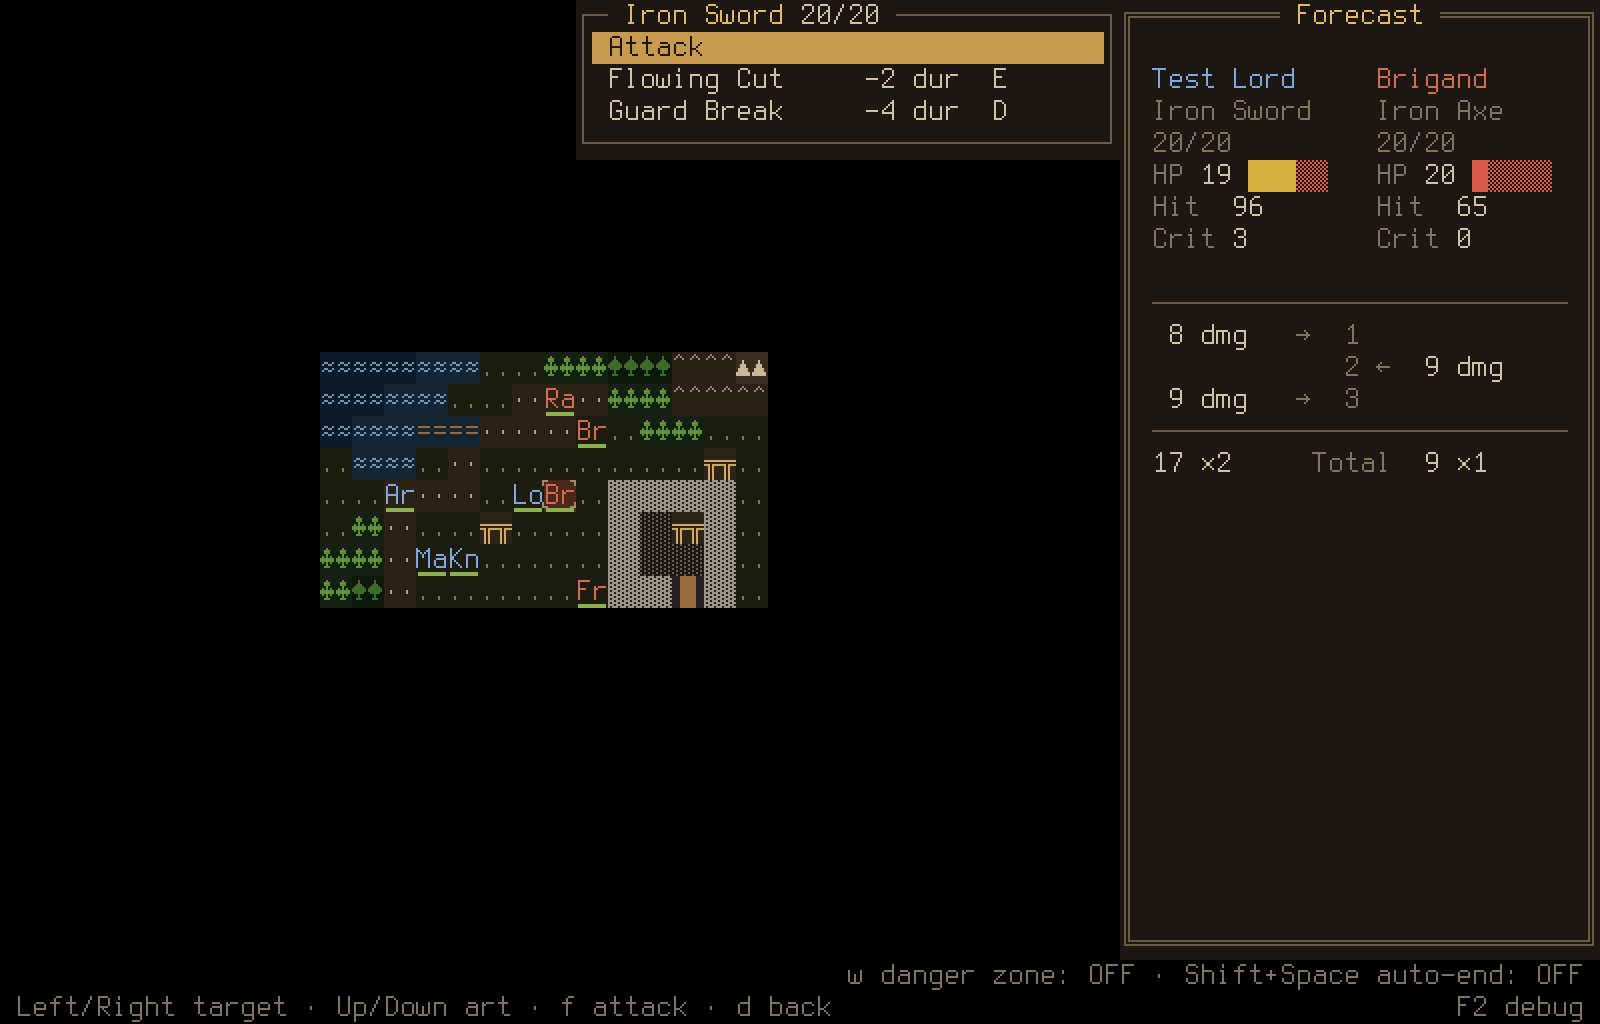
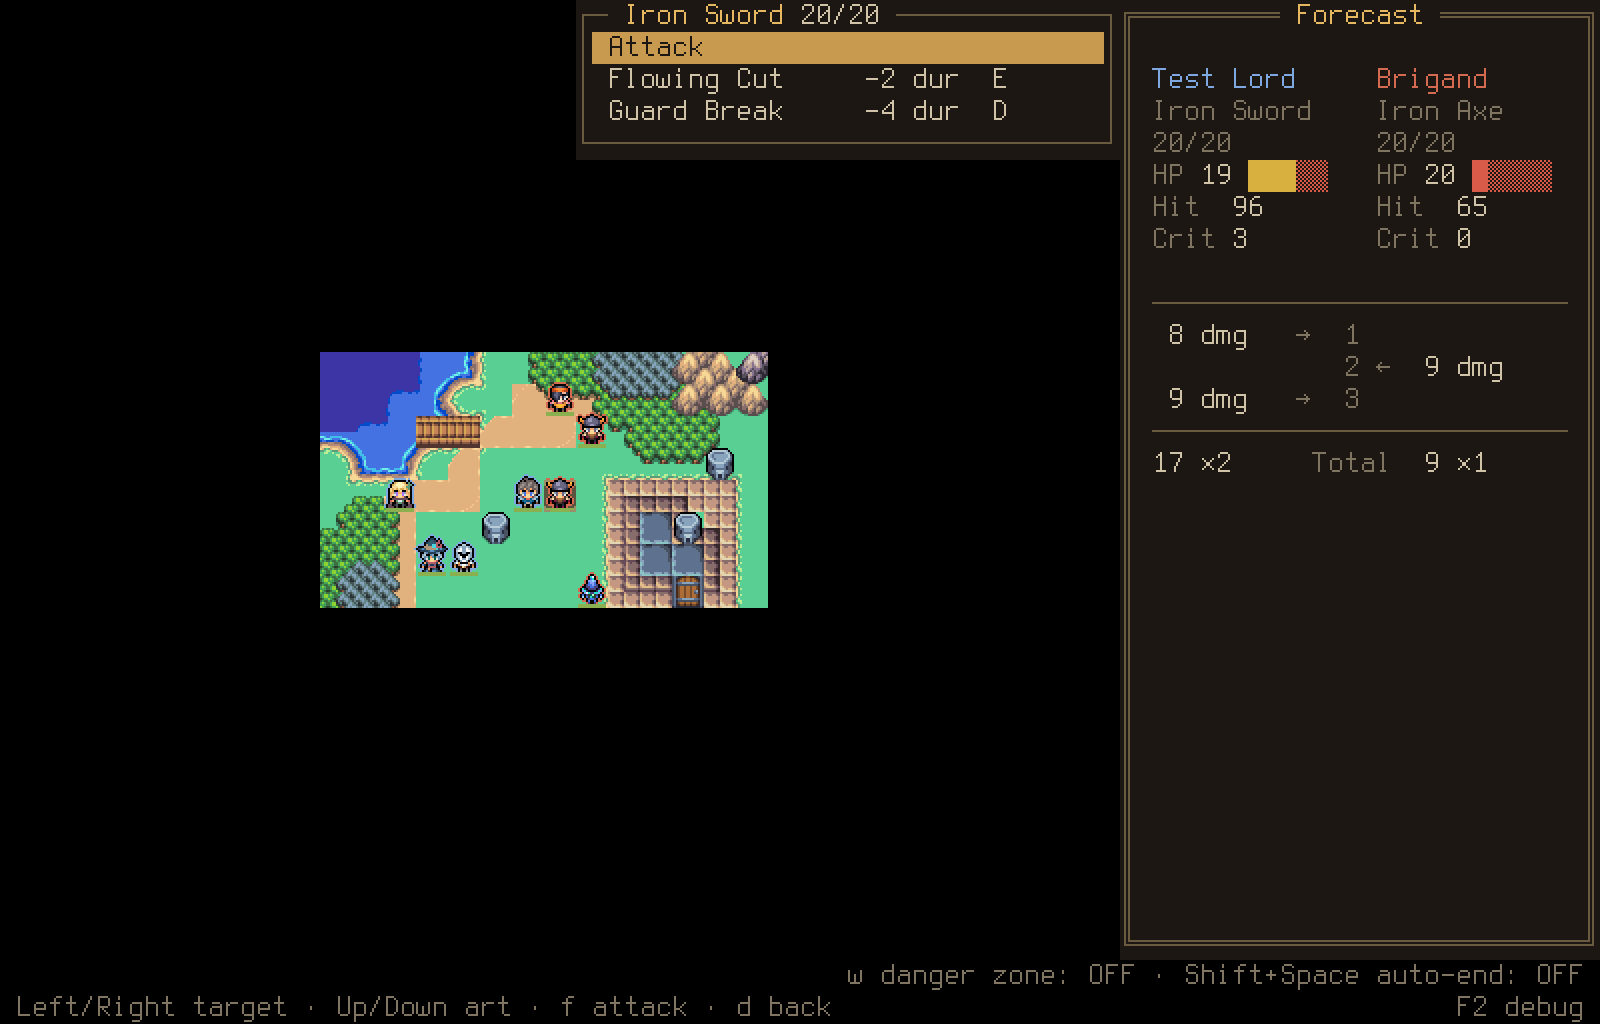
[0121] Show the bought art in the README screenshots; screenshots of the game may be committed

Changed region(s): [[0.1875, 0.3438, 0.5, 0.5938]]

diff --git a/crates/xtask/src/frame_png.rs b/crates/xtask/src/frame_png.rs
@@ -43,8 +43,8 @@ Key and button names are the Harness's test-script names (Chord::parse,
 Button::parse), as in crates/ui/tests: input to a test script, not game
 code, so the never-hard-code-a-key rule doesn't apply to them.
 
-With the private-assets feature the picture shows the bought art: never
-commit it (ADR-0040).";
+With the private-assets feature the picture shows the bought art: commit
+it only as a screenshot of the game (CLAUDE.md, Bought art).";
 
 /// Largest `--scale`.
 const MAX_SCALE: u32 = 8;
@@ -188,7 +188,7 @@ fn summary(shown: &str, frame: &Image, private_assets: bool) -> String {
     if private_assets {
         out.push_str(
             "
-warning: built with private-assets: the picture shows bought art;              never commit it (ADR-0040)",
+warning: built with private-assets: the picture shows bought art;              commit it only as a screenshot of the game (CLAUDE.md, Bought art)",
         );
     }
     out

diff --git a/crates/xtask/src/frame_png/tests.rs b/crates/xtask/src/frame_png/tests.rs
@@ -324,7 +324,10 @@ fn the_summary_warns_about_bought_art() {
         "frame-png: title → a.png (2×1)
 warning: "
     ));
-    assert!(warned.contains("never commit it"), "{warned}");
+    assert!(
+        warned.contains("only as a screenshot of the game"),
+        "{warned}"
+    );
 }
 
 #[test]

diff --git a/tickets/done/0121-readme-new-screenshots-progress-and-planned-features.md b/tickets/done/0121-readme-new-screenshots-progress-and-planned-features.md
@@ -8,7 +8,7 @@ effort: low
 status: done
 blocked_by: []
 nick_input: none
-completed: 2026-10-04
+completed: 2026-10-05
 ---
 
 # 0121 — README: new screenshots, progress and planned features
@@ -28,13 +28,24 @@ without being overly technical."
 
 ## Nick input
 
-None.
+None at the start. When the first version showed only the glyph look, Nick
+asked "what about our sprites?" and, told that the repo's rule forbade
+committing screenshots of the bought art, decided (2026-10-05):
+
+> I think screenshots will be necessary. as long as we're not distributing
+> the *assets* then we are ok. We'll need to include the assets in game
+> screenshots anyway for steam store page... we just don't distribute the
+> raw files at any point
 
 ## Scope
 
 **In:**
 - New screenshots in `docs/img/`, made with `cargo xtask frame-png`
-  (0232) **without** the `private-assets` feature.
+  (0232). First without the `private-assets` feature; then Nick asked for
+  the sprites (see *Nick input*), so the battle and dialogue pictures are
+  made with it.
+- The bought-art rule in `CLAUDE.md`, the `ascii-art` skill and
+  `frame-png`'s texts: screenshots of the game may be committed.
 - `README.md`: what is playable today, progress, what is left for
   Chapter 1, and the planned features in plain words.
 - Cut what a visitor doesn't need: the Releasing steps move to
@@ -43,9 +54,9 @@ None.
   still open.
 
 **Out (do not do):**
-- No screenshot of the bought art (ADR-0040: nothing made from it is
-  committed here).
-- No story spoilers; no game code; no new tooling.
+- No bought file, sheet or cut-out sprite in the repository (ADR-0040).
+- No story spoilers; no game code; no new tooling (only the wording of
+  `frame-png`'s warning changes).
 - No rewrite of the rest of `docs/ROADMAP.md`.
 
 ## Implementation steps
@@ -58,15 +69,15 @@ None.
 
 ## Acceptance criteria
 
-- [x] Every image the README shows exists in `docs/img/` and none shows
-      bought art.
+- [x] Every image the README shows exists in `docs/img/`; those with
+      bought art are screenshots of the game, nothing else.
 - [x] The README's progress numbers match `tickets/` as of 2026-10-04
       (this ticket counted as done).
 - [x] Every planned feature the README lists has a ticket or a design doc
       behind it.
 - [x] No key is presented as fixed (the README names only the default
       style and says everything can be rebound).
-- [x] `cargo xtask ticket-lint` and `typos` pass (docs-only change).
+- [x] `cargo xtask ticket-lint`, `typos` and the `xtask` tests pass.
 
 ## Tests required
 
@@ -74,12 +85,15 @@ None.
 
 ## Completion notes
 
-- Six PNGs in `docs/img/` (1600×1024), replacing the three SVGs. They show
-  the glyph look with the test units and the placeholder portraits; the
-  README says so and points at the browser build for the pixel art. To
-  make them again, from the repo root (`B="Down f Left f f"`, Quick Battle
-  with its banner closed):
-  - `battle-forecast`: `--keys "$B f Right Right Right Up f" --wait 0.8 --keys "f f" --wait 0.3`
+- Seven PNGs in `docs/img/` (1600×1024), replacing the three SVGs.
+  `battle-forecast`, `battle-ranges`, `spell-menu` and `dialogue` show the
+  bought art (`cargo run -q -p xtask --features private-assets --
+  frame-png …`, after `cargo xtask private-assets`); `battle-glyphs` is
+  `battle-forecast` without the feature; the two menu screens look the
+  same either way. All show test units; the lead's face is the public
+  placeholder until 0706. To make them again, from the repo root
+  (`B="Down f Left f f"`, Quick Battle with its banner closed):
+  - `battle-forecast`, `battle-glyphs`: `--keys "$B f Right Right Right Up f" --wait 0.8 --keys "f f" --wait 0.3`
   - `battle-ranges`: `--keys "$B w f" --wait 0.3`
   - `spell-menu`: `--keys "$B Down f Right Right Up Up f" --wait 0.8 --keys f --wait 0.3`
   - `dialogue`: `--keys "f f Up f" --wait 3`
@@ -96,4 +110,10 @@ None.
 - `docs/ROADMAP.md`: the critical path is now three rows (0022–0024, 0413,
   0706, 0822 → 0803, 0809 → 0804). The paragraphs above the table are
   history and were left as they are.
+- **The bought-art rule changed** (Nick's words above): the files, and
+  pictures that hand the art out (a sheet, a cut-out sprite, a mockup
+  pasted together from the files), still never enter this repository; a
+  screenshot of the running game may. `CLAUDE.md`, the `ascii-art` skill
+  and `frame-png`'s help and warning say so now. No ADR was changed:
+  ADR-0032 and ADR-0040 speak of the files, not of screenshots.
 - The progress numbers are a snapshot and will go stale again.

diff --git a/README.md b/README.md
@@ -13,7 +13,7 @@
 [![Quality Gate Status](https://sonarcloud.io/api/project_badges/measure?project=Zafnok_tactical-rpg&metric=alert_status)](https://sonarcloud.io/summary/new_code?id=Zafnok_tactical-rpg)
 [![Coverage](https://sonarcloud.io/api/project_badges/measure?project=Zafnok_tactical-rpg&metric=coverage)](https://sonarcloud.io/summary/new_code?id=Zafnok_tactical-rpg)
 
-<img src="docs/img/battle-forecast.png" alt="A small battle map drawn in coloured glyphs: a river, forest, mountains and a fort. The lord stands next to a brigand; the forecast panel shows hit, crit and damage for both sides, and a menu offers a plain attack or the Combat Arts Flowing Cut and Guard Break." width="100%">
+<img src="docs/img/battle-forecast.png" alt="A small battle map in pixel art: a river, forest, mountains and a fort. The lord stands next to a brigand; the forecast panel shows hit, crit and damage for both sides, and a menu offers a plain attack or the Combat Arts Flowing Cut and Guard Break." width="100%">
 
 </div>
 
@@ -50,19 +50,18 @@ Every key and button can be rebound.
 <td align="center"><sub>Spells</sub></td>
 </tr>
 <tr>
-<td width="50%"><img src="docs/img/dialogue.png" alt="A dialogue scene: two pixel-art portraits face each other above a text box." width="100%"></td>
-<td width="50%"><img src="docs/img/preparations.png" alt="The Preparations screen: the army's units, one unit's weapons, armour and accessory, and the weapons in stock." width="100%"></td>
+<td width="50%"><img src="docs/img/dialogue.png" alt="A dialogue scene: two portraits face each other above a text box." width="100%"></td>
+<td width="50%"><img src="docs/img/battle-glyphs.png" alt="The same battle and forecast as the picture at the top, with the map drawn in coloured glyphs: two letters for each unit." width="100%"></td>
 </tr>
 <tr>
 <td align="center"><sub>Dialogue scenes</sub></td>
-<td align="center"><sub>Preparations: loadouts and the shared pack</sub></td>
+<td align="center"><sub>The glyph look: the same battle as the top picture</sub></td>
 </tr>
 </table>
 
-<sub>These pictures show the glyph look with test units and placeholder
-portraits. The pixel art was bought and is not part of this repository, so
-it is only shown in the game itself:
-[the browser build](https://zafnok.github.io/visions-of-shuyi/) uses it.</sub>
+<sub>The pictures show test units on a test map. The lead's face is still
+a placeholder: the cast's portraits are next. The pixel art was bought and
+its files are not part of this repository.</sub>
 
 ## What you can play today
 
@@ -96,10 +95,16 @@ buttons, a credits screen, and music and sound throughout.
 
 <table>
 <tr>
+<td width="50%"><img src="docs/img/preparations.png" alt="The Preparations screen: the army's units, one unit's weapons, armour and accessory, and the weapons in stock." width="100%"></td>
 <td width="50%"><img src="docs/img/key-bindings.png" alt="The key bindings screen: each action with up to three keys, a tab for the keyboard layout and one for the controller." width="100%"></td>
-<td width="50%" valign="top">
+</tr>
+<tr>
+<td align="center"><sub>Preparations: loadouts and the shared pack</sub></td>
+<td align="center"><sub>Rebinding keys and controller buttons</sub></td>
+</tr>
+</table>
 
-**Not in yet**
+**Not in yet:**
 
 - The real Chapter 1: its map, its cast with their portraits, and its
   script in the game. The script is written; today's build plays a test
@@ -108,13 +113,9 @@ buttons, a credits screen, and music and sound throughout.
 - Victory, defeat and Game Over music.
 - Shops and villages on the map.
 
-</td>
-</tr>
-</table>
-
 ### Progress
 
-*As of 2026-10-04. Work is tracked as tickets in [`tickets/`](tickets/README.md);
+*As of 2026-10-05. Work is tracked as tickets in [`tickets/`](tickets/README.md);
 the numbers below count finished tickets out of all tickets written so far.*
 
 | Area | Progress | Done |

diff --git a/CLAUDE.md b/CLAUDE.md
@@ -76,8 +76,11 @@ Rust. Windows exe first, plus web (WASM); itch.io then Steam.
 - Use `cargo install --locked <tool>` (cargo-binstall fails to build here).
 - `cargo xtask clean-merged-targets [--dry-run]` deletes the `target/` build
   folder of every worktree whose PR has merged (10+ GB each).
-- **Bought art** (ADR-0040) is never in this repository, and nothing made
-  from it (a mockup, a screenshot) is ever committed here.
+- **Bought art** (ADR-0040): the files are never in this repository, and
+  neither is a picture that hands the art out (a sheet, a cut-out sprite, a
+  mockup pasted together from the files). A screenshot of the running game
+  that shows the art may be committed (Nick, 2026-10-05: the README and the
+  store pages need them; "we just don't distribute the raw files").
   `cargo xtask private-assets` checks the private repository out into
   `assets-private/` (only `game/`; add `--library` for the bought packs in
   `assets-private/library/`). Gates never read it. To see it in a build:

diff --git a/.claude/skills/ascii-art/SKILL.md b/.claude/skills/ascii-art/SKILL.md
@@ -76,8 +76,9 @@ scripted keys and writes the frame exactly as `app` draws it, sprites
 included. Don't write a throwaway renderer. For a screen that doesn't exist
 yet, build its `GlyphBuffer` in a scratch test in `crates/xtask` and render
 it with `frame_png::Painter` (don't commit the scratch test). Built with
-`--features private-assets` the picture shows bought art: show it to Nick,
-never commit it (ADR-0040). Look at every render yourself before sending it, and fix
+`--features private-assets` the picture shows bought art: show it to Nick.
+Only a screenshot of the running game may be committed, never a mockup or
+a picture that hands the art out (`CLAUDE.md`, *Bought art*). Look at every render yourself before sending it, and fix
 overlaps, cut-off text and invented details (no stats or rules that aren't in
 `docs/design/`). Offer genuinely different options, then iterate on his
 comments. He often asks for more options or a combination.
